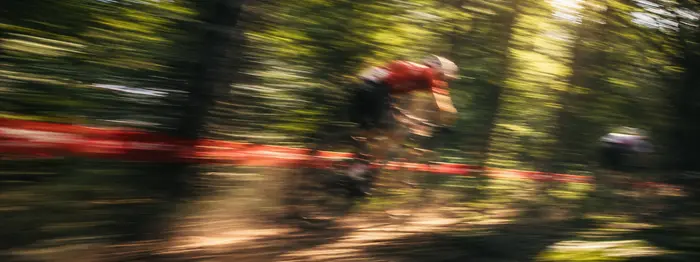
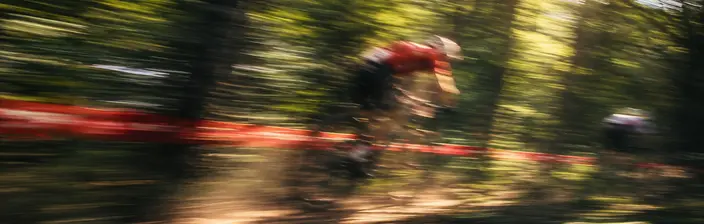
Cut the intro photograph to the size it is actually drawn at.
704x224 rather than 704x262: object-cover was throwing the extra height away,
and eighteen kilobytes is four less than before for the same picture on screen.

diff --git a/src/components/explore/welcome-card.tsx b/src/components/explore/welcome-card.tsx
@@ -82,8 +82,8 @@ export function WelcomeCard({
       <img
         src="/intro-race.webp"
         alt=""
-        width={700}
-        height={262}
+        width={704}
+        height={224}
         className="h-24 w-full object-cover md:h-28"
       />
       <Button
